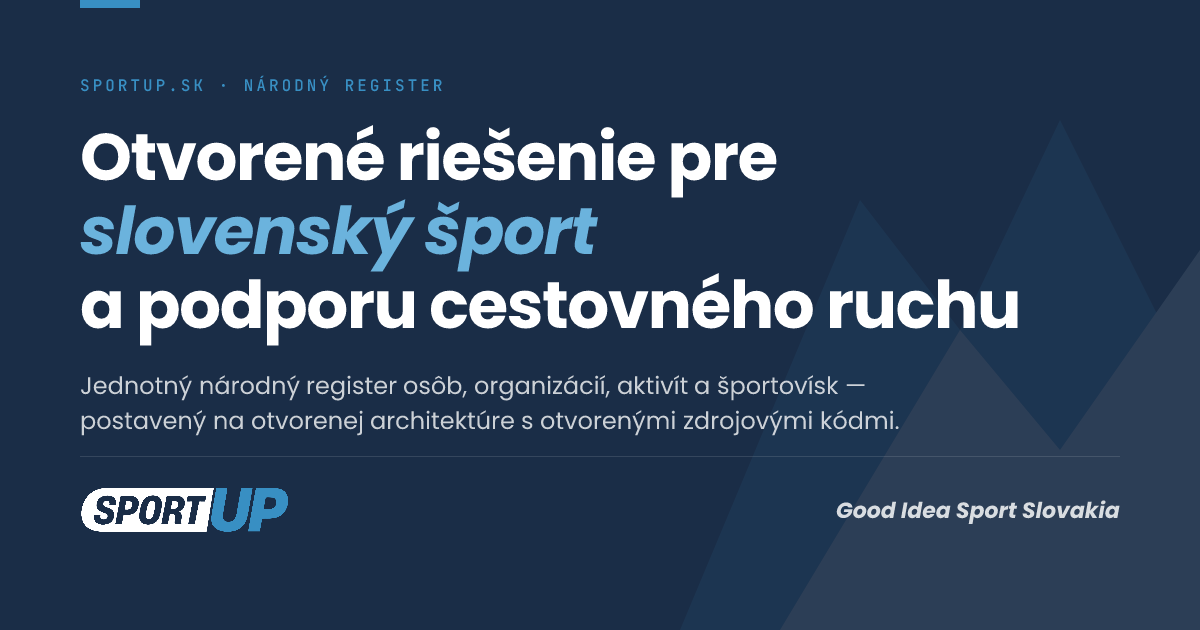
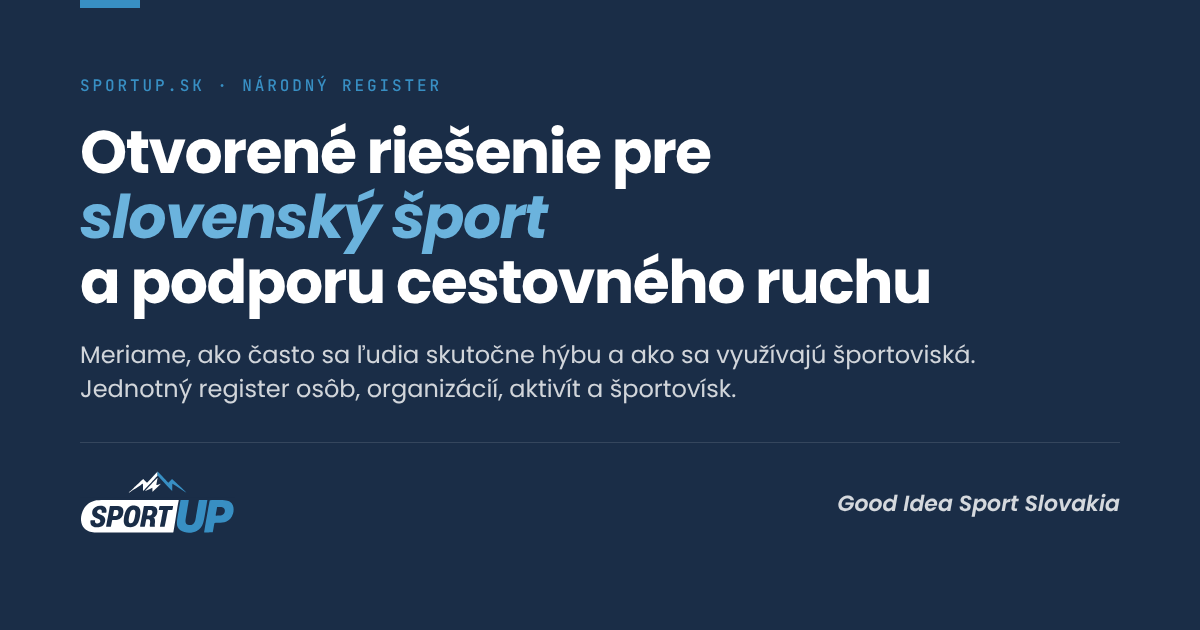
fix(web): OG obrázky so správnym logom, nový og-aktivita, generátor og_images.py
Logo SportUp-dark-mountain.svg namiesto nápisu bez hôr, bez hôr v pozadí (DS v2). OG popis úvodnej strany o meraní aktivity. URL obrázkov s ?v=20261117 kvôli cache sietí.

Claude-Session: https://claude.ai/code/session_01RE3qgADYmE3TragoNQuXN7

diff --git a/website/brand/og-source.html b/website/brand/og-source.html
@@ -1,17 +1,13 @@
 <!--
-  SportUp.sk — Open Graph image source (1200×630)
+  SportUp.sk — šablóna Open Graph obrázkov (1200×630)
 
-  Tento súbor sa používa na generovanie /og-image.png pomocou Chrome headless.
-  Pri zmene textu alebo layoutu spusti:
+  Obrázky og-*.png vo website/ sa generujú skriptom
+    python3 marketing/social/tools/og_images.py
+  ktorý túto šablónu vyplní textami jednotlivých stránok a odfotí ju
+  v Chrome (Playwright). Texty stránok sú v skripte, nie tu.
 
-    /Applications/Google\ Chrome.app/Contents/MacOS/Google\ Chrome \
-      --headless=new --disable-gpu --hide-scrollbars \
-      --window-size=1200,630 \
-      --screenshot=og-image.png \
-      'file:///absolutna/cesta/k/og-source.html'
-
-  Vyžaduje lokálne nainštalovanú font Helvetica Neue Black Italic
-  (zvyšok fontov sa stiahne z Google Fonts pri renderovaní).
+  Logo: brand/logo/SportUp-dark-mountain.svg (variant pre tmavé pozadie,
+  rovnaký ako v hlavičke webu). Hory sú len v logu, nie v pozadí.
 
   Bezpečná zóna pre obsah: top 75px / sides 80px / bottom 95px
   — zachováva čitateľnosť pri 1.91:1 cropovaní (Facebook, LinkedIn).
@@ -20,12 +16,9 @@
 <html lang="sk">
 <head>
 <meta charset="UTF-8">
-<link href="https://fonts.googleapis.com/css2?family=Poppins:ital,wght@0,400;0,600;0,700;0,800;1,800&family=JetBrains+Mono:wght@500&display=swap" rel="stylesheet">
+<link href="https://fonts.googleapis.com/css2?family=Poppins:ital,wght@0,400;0,600;0,700;1,600;1,700&family=JetBrains+Mono:wght@500&display=swap" rel="stylesheet">
 <style>
-  @font-face {
-    font-family: 'Helvetica Neue Black Italic';
-    src: local('Helvetica Neue Black Italic');
-  }
+  /*LOCAL_FONTS*/
   * { margin: 0; padding: 0; box-sizing: border-box; }
   html, body { width: 1200px; height: 630px; overflow: hidden; }
   body {
@@ -37,15 +30,6 @@
     display: flex;
     flex-direction: column;
     justify-content: space-between;
-  }
-  /* mountain motif top-right */
-  .mountain {
-    position: absolute;
-    top: 0;
-    right: 0;
-    width: 520px;
-    height: 100%;
-    opacity: 0.08;
   }
   .accent-line {
     position: absolute;
@@ -65,13 +49,12 @@
     margin-bottom: 24px;
   }
   .title {
-    font-family: 'Poppins', sans-serif;
     font-weight: 700;
-    font-size: 68px;
-    line-height: 1.05;
+    font-size: 60px;
+    line-height: 1.08;
     letter-spacing: -0.025em;
     margin-bottom: 24px;
-    max-width: 900px;
+    max-width: 980px;
   }
   .title em {
     font-style: italic;
@@ -79,13 +62,12 @@
     color: #6BB3DD;
   }
   .lead {
-    font-family: 'Poppins', sans-serif;
     font-weight: 400;
     font-size: 24px;
     line-height: 1.4;
-    color: rgba(255,255,255,0.78);
-    max-width: 820px;
-    margin-bottom: 36px;
+    color: rgba(255,255,255,0.8);
+    max-width: 900px;
+    margin-bottom: 32px;
   }
   .footer {
     display: flex;
@@ -94,31 +76,8 @@
     padding-top: 28px;
     border-top: 1px solid rgba(255,255,255,0.12);
   }
-  .logo {
-    font-family: 'Helvetica Neue Black Italic', 'Poppins', sans-serif;
-    font-weight: 900;
-    font-style: italic;
-    font-size: 56px;
-    line-height: 1;
-    letter-spacing: -0.02em;
-  }
-  .logo .sport { color: #fff; }
-  .logo .up { color: #388FC3; }
-  .logo .tld {
-    font-family: 'JetBrains Mono', monospace;
-    font-style: normal;
-    font-weight: 500;
-    font-size: 24px;
-    color: rgba(255,255,255,0.55);
-    letter-spacing: 0;
-    margin-left: 4px;
-    vertical-align: 16px;
-  }
-  .meta {
-    text-align: right;
-  }
+  .logo { height: 64px; width: auto; display: block; }
   .meta-line {
-    font-family: 'Poppins', sans-serif;
     font-weight: 600;
     font-style: italic;
     font-size: 22px;
@@ -127,23 +86,17 @@
 </style>
 </head>
 <body>
-  <svg class="mountain" viewBox="0 0 520 630" xmlns="http://www.w3.org/2000/svg" preserveAspectRatio="xMaxYMid slice">
-    <polygon points="0,630 180,200 280,330 380,120 520,400 520,630" fill="#388FC3"/>
-    <polygon points="100,630 280,330 380,450 520,250 520,630" fill="#fff"/>
-  </svg>
   <div class="accent-line"></div>
 
   <div>
-    <div class="eyebrow">SportUp.sk · Národný register</div>
-    <h1 class="title">Otvorené riešenie pre <em>slovenský šport</em> a podporu cestovného ruchu</h1>
-    <p class="lead">Jednotný národný register osôb, organizácií, aktivít a športovísk — postavený na otvorenej architektúre s otvorenými zdrojovými kódmi.</p>
+    <div class="eyebrow">{eyebrow}</div>
+    <h1 class="title">{title}</h1>
+    <p class="lead">{lead}</p>
   </div>
 
   <div class="footer">
-    <div class="logo"><span class="sport">Sport</span><span class="up">UP</span><span class="tld">.sk</span></div>
-    <div class="meta">
-      <div class="meta-line">Good Idea Sport Slovakia</div>
-    </div>
+    <img class="logo" src="logo/SportUp-dark-mountain.svg" alt="SportUp">
+    <div class="meta-line">Good Idea Sport Slovakia</div>
   </div>
 </body>
 </html>

diff --git a/website/index.html b/website/index.html
@@ -21,13 +21,13 @@
 
 <!-- Open Graph -->
 <meta property="og:title" content="SportUp.sk — Otvorené riešenie pre slovenský šport a podporu cestovného ruchu">
-<meta property="og:description" content="Jednotný národný register osôb, organizácií a aktivít s verejným registrom športovísk a vzdelávacími a rozvojovými službami postavený na otvorenej architektúre s otvorenými zdrojovými kódmi.">
+<meta property="og:description" content="SportUp meria, ako často sa ľudia skutočne hýbu a ako sa využívajú športoviská. Jednotný národný register osôb, organizácií, aktivít a športovísk na otvorenej architektúre.">
 <meta property="og:type" content="website">
 <meta property="og:locale" content="sk_SK">
 <meta property="og:site_name" content="SportUp.sk">
 <meta property="og:url" content="https://sportup.sk/">
-<meta property="og:image" content="https://sportup.sk/og-index.png">
-<meta property="og:image:secure_url" content="https://sportup.sk/og-index.png">
+<meta property="og:image" content="https://sportup.sk/og-index.png?v=20261117">
+<meta property="og:image:secure_url" content="https://sportup.sk/og-index.png?v=20261117">
 <meta property="og:image:type" content="image/png">
 <meta property="og:image:width" content="1200">
 <meta property="og:image:height" content="630">
@@ -36,8 +36,8 @@
 <!-- Twitter / X -->
 <meta name="twitter:card" content="summary_large_image">
 <meta name="twitter:title" content="SportUp.sk — Otvorené riešenie pre slovenský šport a podporu cestovného ruchu">
-<meta name="twitter:description" content="Jednotný národný register osôb, organizácií a aktivít s verejným registrom športovísk a vzdelávacími a rozvojovými službami postavený na otvorenej architektúre s otvorenými zdrojovými kódmi.">
-<meta name="twitter:image" content="https://sportup.sk/og-index.png">
+<meta name="twitter:description" content="SportUp meria, ako často sa ľudia skutočne hýbu a ako sa využívajú športoviská. Jednotný národný register osôb, organizácií, aktivít a športovísk na otvorenej architektúre.">
+<meta name="twitter:image" content="https://sportup.sk/og-index.png?v=20261117">
 <meta name="twitter:image:alt" content="SportUp.sk — Otvorené riešenie pre slovenský šport a cestovný ruch">
 
 <!-- Structured data -->

diff --git a/website/ciselniky.html b/website/ciselniky.html
@@ -26,8 +26,8 @@
 <meta property="og:locale" content="sk_SK">
 <meta property="og:site_name" content="SportUp.sk">
 <meta property="og:url" content="https://sportup.sk/ciselniky.html">
-<meta property="og:image" content="https://sportup.sk/og-dokumentacia.png">
-<meta property="og:image:secure_url" content="https://sportup.sk/og-dokumentacia.png">
+<meta property="og:image" content="https://sportup.sk/og-dokumentacia.png?v=20261117">
+<meta property="og:image:secure_url" content="https://sportup.sk/og-dokumentacia.png?v=20261117">
 <meta property="og:image:type" content="image/png">
 <meta property="og:image:width" content="1200">
 <meta property="og:image:height" content="630">
@@ -37,7 +37,7 @@
 <meta name="twitter:card" content="summary_large_image">
 <meta name="twitter:title" content="Číselníky — SportUp.sk">
 <meta name="twitter:description" content="Centrálne číselníky nového IS športu: druhy činnosti, typy organizácií, športoviská, kategórie, kvalifikácie.">
-<meta name="twitter:image" content="https://sportup.sk/og-dokumentacia.png">
+<meta name="twitter:image" content="https://sportup.sk/og-dokumentacia.png?v=20261117">
 <meta name="twitter:image:alt" content="SportUp.sk — Centrálne číselníky">
 
 <!-- Structured data -->

diff --git a/website/aktivita.html b/website/aktivita.html
@@ -27,8 +27,8 @@
 <meta property="og:locale" content="sk_SK">
 <meta property="og:site_name" content="SportUp.sk">
 <meta property="og:url" content="https://sportup.sk/aktivita.html">
-<meta property="og:image" content="https://sportup.sk/og-index.png">
-<meta property="og:image:secure_url" content="https://sportup.sk/og-index.png">
+<meta property="og:image" content="https://sportup.sk/og-aktivita.png?v=20261117">
+<meta property="og:image:secure_url" content="https://sportup.sk/og-aktivita.png?v=20261117">
 <meta property="og:image:type" content="image/png">
 <meta property="og:image:width" content="1200">
 <meta property="og:image:height" content="630">
@@ -38,7 +38,7 @@
 <meta name="twitter:card" content="summary_large_image">
 <meta name="twitter:title" content="Aktivita ako merná jednotka — SportUp.sk">
 <meta name="twitter:description" content="SportUp meria aktivitu: ako často sa ľudia skutočne hýbu a ako sa využívajú športoviská. Nie len počet registrácií.">
-<meta name="twitter:image" content="https://sportup.sk/og-index.png">
+<meta name="twitter:image" content="https://sportup.sk/og-aktivita.png?v=20261117">
 <meta name="twitter:image:alt" content="SportUp.sk — Aktivita ako merná jednotka">
 
 <!-- Structured data -->

diff --git a/website/portal.html b/website/portal.html
@@ -30,8 +30,8 @@
 <meta property="og:locale" content="sk_SK">
 <meta property="og:site_name" content="SportUp.sk">
 <meta property="og:url" content="https://sportup.sk/portal.html">
-<meta property="og:image" content="https://sportup.sk/og-portal.png">
-<meta property="og:image:secure_url" content="https://sportup.sk/og-portal.png">
+<meta property="og:image" content="https://sportup.sk/og-portal.png?v=20261117">
+<meta property="og:image:secure_url" content="https://sportup.sk/og-portal.png?v=20261117">
 <meta property="og:image:type" content="image/png">
 <meta property="og:image:width" content="1200">
 <meta property="og:image:height" content="630">
@@ -41,7 +41,7 @@
 <meta name="twitter:card" content="summary_large_image">
 <meta name="twitter:title" content="Verejný portál — SportUp.sk">
 <meta name="twitter:description" content="Verejný portál s mapovým podkladom — vizualizácia dát pre používateľov. Športoviská, ubytovanie, trasy a lokálne podujatia v okolí.">
-<meta name="twitter:image" content="https://sportup.sk/og-portal.png">
+<meta name="twitter:image" content="https://sportup.sk/og-portal.png?v=20261117">
 <meta name="twitter:image:alt" content="SportUp.sk — Verejný portál">
 
 <!-- Structured data -->

diff --git a/website/architektura.html b/website/architektura.html
@@ -26,8 +26,8 @@
 <meta property="og:locale" content="sk_SK">
 <meta property="og:site_name" content="SportUp.sk">
 <meta property="og:url" content="https://sportup.sk/architektura.html">
-<meta property="og:image" content="https://sportup.sk/og-dokumentacia.png">
-<meta property="og:image:secure_url" content="https://sportup.sk/og-dokumentacia.png">
+<meta property="og:image" content="https://sportup.sk/og-dokumentacia.png?v=20261117">
+<meta property="og:image:secure_url" content="https://sportup.sk/og-dokumentacia.png?v=20261117">
 <meta property="og:image:type" content="image/png">
 <meta property="og:image:width" content="1200">
 <meta property="og:image:height" content="630">
@@ -37,7 +37,7 @@
 <meta name="twitter:card" content="summary_large_image">
 <meta name="twitter:title" content="Architektúra — SportUp.sk">
 <meta name="twitter:description" content="Vrstvová architektúra, zero-trust model, event sourcing a CQRS, prepojenie na štátne registre.">
-<meta name="twitter:image" content="https://sportup.sk/og-dokumentacia.png">
+<meta name="twitter:image" content="https://sportup.sk/og-dokumentacia.png?v=20261117">
 <meta name="twitter:image:alt" content="SportUp.sk — Architektúra systému">
 
 <!-- Structured data -->

diff --git a/website/domenovy-model.html b/website/domenovy-model.html
@@ -26,8 +26,8 @@
 <meta property="og:locale" content="sk_SK">
 <meta property="og:site_name" content="SportUp.sk">
 <meta property="og:url" content="https://sportup.sk/domenovy-model.html">
-<meta property="og:image" content="https://sportup.sk/og-dokumentacia.png">
-<meta property="og:image:secure_url" content="https://sportup.sk/og-dokumentacia.png">
+<meta property="og:image" content="https://sportup.sk/og-dokumentacia.png?v=20261117">
+<meta property="og:image:secure_url" content="https://sportup.sk/og-dokumentacia.png?v=20261117">
 <meta property="og:image:type" content="image/png">
 <meta property="og:image:width" content="1200">
 <meta property="og:image:height" content="630">
@@ -37,7 +37,7 @@
 <meta name="twitter:card" content="summary_large_image">
 <meta name="twitter:title" content="Doménový model — SportUp.sk">
 <meta name="twitter:description" content="Entity systému: Person, Affiliation, Organization, Facility, Activity, Qualification, Consent.">
-<meta name="twitter:image" content="https://sportup.sk/og-dokumentacia.png">
+<meta name="twitter:image" content="https://sportup.sk/og-dokumentacia.png?v=20261117">
 <meta name="twitter:image:alt" content="SportUp.sk — Doménový model">
 
 <!-- Structured data -->

diff --git a/website/priklady.html b/website/priklady.html
@@ -27,8 +27,8 @@
 <meta property="og:locale" content="sk_SK">
 <meta property="og:site_name" content="SportUp.sk">
 <meta property="og:url" content="https://sportup.sk/priklady.html">
-<meta property="og:image" content="https://sportup.sk/og-priklady.png">
-<meta property="og:image:secure_url" content="https://sportup.sk/og-priklady.png">
+<meta property="og:image" content="https://sportup.sk/og-priklady.png?v=20261117">
+<meta property="og:image:secure_url" content="https://sportup.sk/og-priklady.png?v=20261117">
 <meta property="og:image:type" content="image/png">
 <meta property="og:image:width" content="1200">
 <meta property="og:image:height" content="630">
@@ -38,7 +38,7 @@
 <meta name="twitter:card" content="summary_large_image">
 <meta name="twitter:title" content="Príklady — SportUp.sk">
 <meta name="twitter:description" content="Konkrétne príklady dát a scenárov: registrácia, prestup, multi-role zapojenie, komerčné overenie, športoviská.">
-<meta name="twitter:image" content="https://sportup.sk/og-priklady.png">
+<meta name="twitter:image" content="https://sportup.sk/og-priklady.png?v=20261117">
 <meta name="twitter:image:alt" content="SportUp.sk — Príklady použitia">
 
 <!-- Structured data -->

diff --git a/website/technologie.html b/website/technologie.html
@@ -26,8 +26,8 @@
 <meta property="og:locale" content="sk_SK">
 <meta property="og:site_name" content="SportUp.sk">
 <meta property="og:url" content="https://sportup.sk/technologie.html">
-<meta property="og:image" content="https://sportup.sk/og-dokumentacia.png">
-<meta property="og:image:secure_url" content="https://sportup.sk/og-dokumentacia.png">
+<meta property="og:image" content="https://sportup.sk/og-dokumentacia.png?v=20261117">
+<meta property="og:image:secure_url" content="https://sportup.sk/og-dokumentacia.png?v=20261117">
 <meta property="og:image:type" content="image/png">
 <meta property="og:image:width" content="1200">
 <meta property="og:image:height" content="630">
@@ -37,7 +37,7 @@
 <meta name="twitter:card" content="summary_large_image">
 <meta name="twitter:title" content="Technológie — SportUp.sk">
 <meta name="twitter:description" content="Technologický stack pre implementáciu SportUp: Next.js, Node.js, MongoDB, OPA, Redis.">
-<meta name="twitter:image" content="https://sportup.sk/og-dokumentacia.png">
+<meta name="twitter:image" content="https://sportup.sk/og-dokumentacia.png?v=20261117">
 <meta name="twitter:image:alt" content="SportUp.sk — Technologický stack">
 
 <!-- Structured data -->

diff --git a/website/ucely.html b/website/ucely.html
@@ -27,8 +27,8 @@
 <meta property="og:locale" content="sk_SK">
 <meta property="og:site_name" content="SportUp.sk">
 <meta property="og:url" content="https://sportup.sk/ucely.html">
-<meta property="og:image" content="https://sportup.sk/og-ucely.png">
-<meta property="og:image:secure_url" content="https://sportup.sk/og-ucely.png">
+<meta property="og:image" content="https://sportup.sk/og-ucely.png?v=20261117">
+<meta property="og:image:secure_url" content="https://sportup.sk/og-ucely.png?v=20261117">
 <meta property="og:image:type" content="image/png">
 <meta property="og:image:width" content="1200">
 <meta property="og:image:height" content="630">
@@ -38,7 +38,7 @@
 <meta name="twitter:card" content="summary_large_image">
 <meta name="twitter:title" content="Účely spracovania — SportUp.sk">
 <meta name="twitter:description" content="Vrstvený Purpose Catalogue pre GDPR-compliant spracovanie osobných údajov v športe a cestovnom ruchu.">
-<meta name="twitter:image" content="https://sportup.sk/og-ucely.png">
+<meta name="twitter:image" content="https://sportup.sk/og-ucely.png?v=20261117">
 <meta name="twitter:image:alt" content="SportUp.sk — Účely spracovania osobných údajov">
 
 <!-- Structured data -->

diff --git a/website/ekosystem.html b/website/ekosystem.html
@@ -24,8 +24,8 @@
 <meta property="og:locale" content="sk_SK">
 <meta property="og:site_name" content="SportUp.sk">
 <meta property="og:url" content="https://sportup.sk/ekosystem.html">
-<meta property="og:image" content="https://sportup.sk/og-ekosystem.png">
-<meta property="og:image:secure_url" content="https://sportup.sk/og-ekosystem.png">
+<meta property="og:image" content="https://sportup.sk/og-ekosystem.png?v=20261117">
+<meta property="og:image:secure_url" content="https://sportup.sk/og-ekosystem.png?v=20261117">
 <meta property="og:image:type" content="image/png">
 <meta property="og:image:width" content="1200">
 <meta property="og:image:height" content="630">
@@ -35,7 +35,7 @@
 <meta name="twitter:card" content="summary_large_image">
 <meta name="twitter:title" content="Ekosystém platforiem — SportUp.sk">
 <meta name="twitter:description" content="Tri prepojené platformy tvoriace národný ekosystém pre šport a cestovný ruch.">
-<meta name="twitter:image" content="https://sportup.sk/og-ekosystem.png">
+<meta name="twitter:image" content="https://sportup.sk/og-ekosystem.png?v=20261117">
 <meta name="twitter:image:alt" content="SportUp.sk — Ekosystém produktov">
 
 <!-- Structured data -->

diff --git a/website/brand.html b/website/brand.html
@@ -24,8 +24,8 @@
 <meta property="og:locale" content="sk_SK">
 <meta property="og:site_name" content="SportUp.sk">
 <meta property="og:url" content="https://sportup.sk/brand.html">
-<meta property="og:image" content="https://sportup.sk/og-dokumentacia.png">
-<meta property="og:image:secure_url" content="https://sportup.sk/og-dokumentacia.png">
+<meta property="og:image" content="https://sportup.sk/og-dokumentacia.png?v=20261117">
+<meta property="og:image:secure_url" content="https://sportup.sk/og-dokumentacia.png?v=20261117">
 <meta property="og:image:type" content="image/png">
 <meta property="og:image:width" content="1200">
 <meta property="og:image:height" content="630">
@@ -35,7 +35,7 @@
 <meta name="twitter:card" content="summary_large_image">
 <meta name="twitter:title" content="Brand a vizuálna identita — SportUp.sk">
 <meta name="twitter:description" content="Logo, farby, typografia a pravidlá používania značky SportUp.">
-<meta name="twitter:image" content="https://sportup.sk/og-dokumentacia.png">
+<meta name="twitter:image" content="https://sportup.sk/og-dokumentacia.png?v=20261117">
 <meta name="twitter:image:alt" content="SportUp.sk — Vizuálna identita">
 
 <!-- Structured data -->
